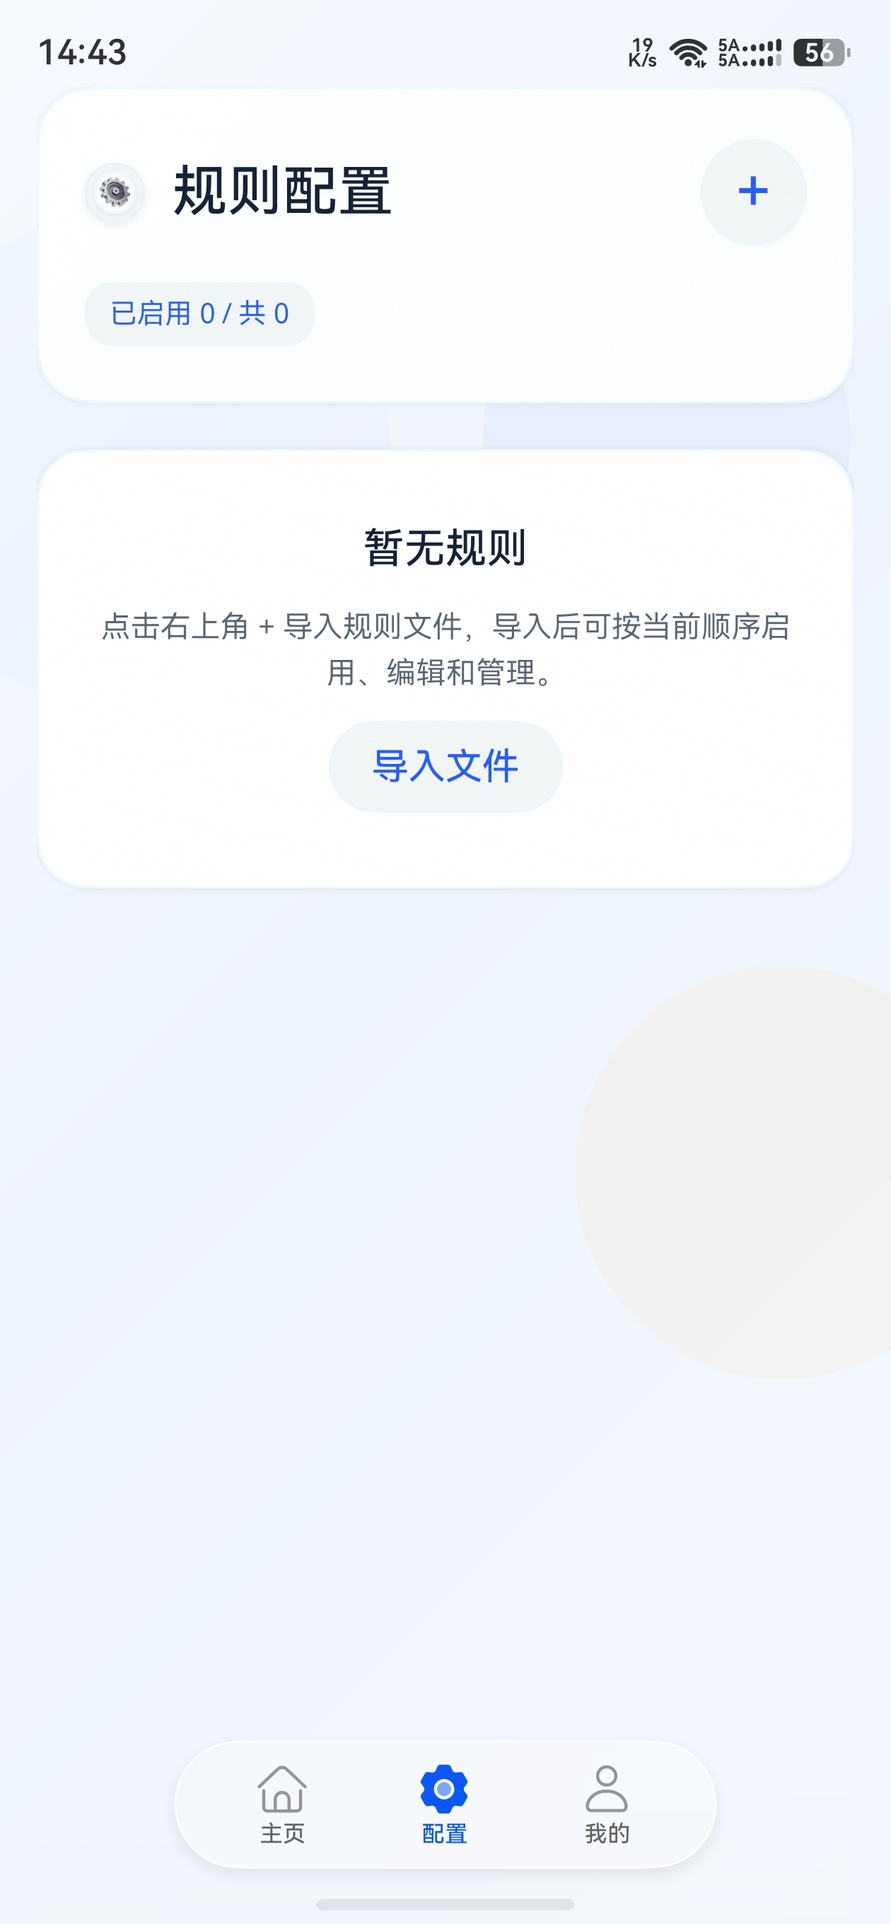
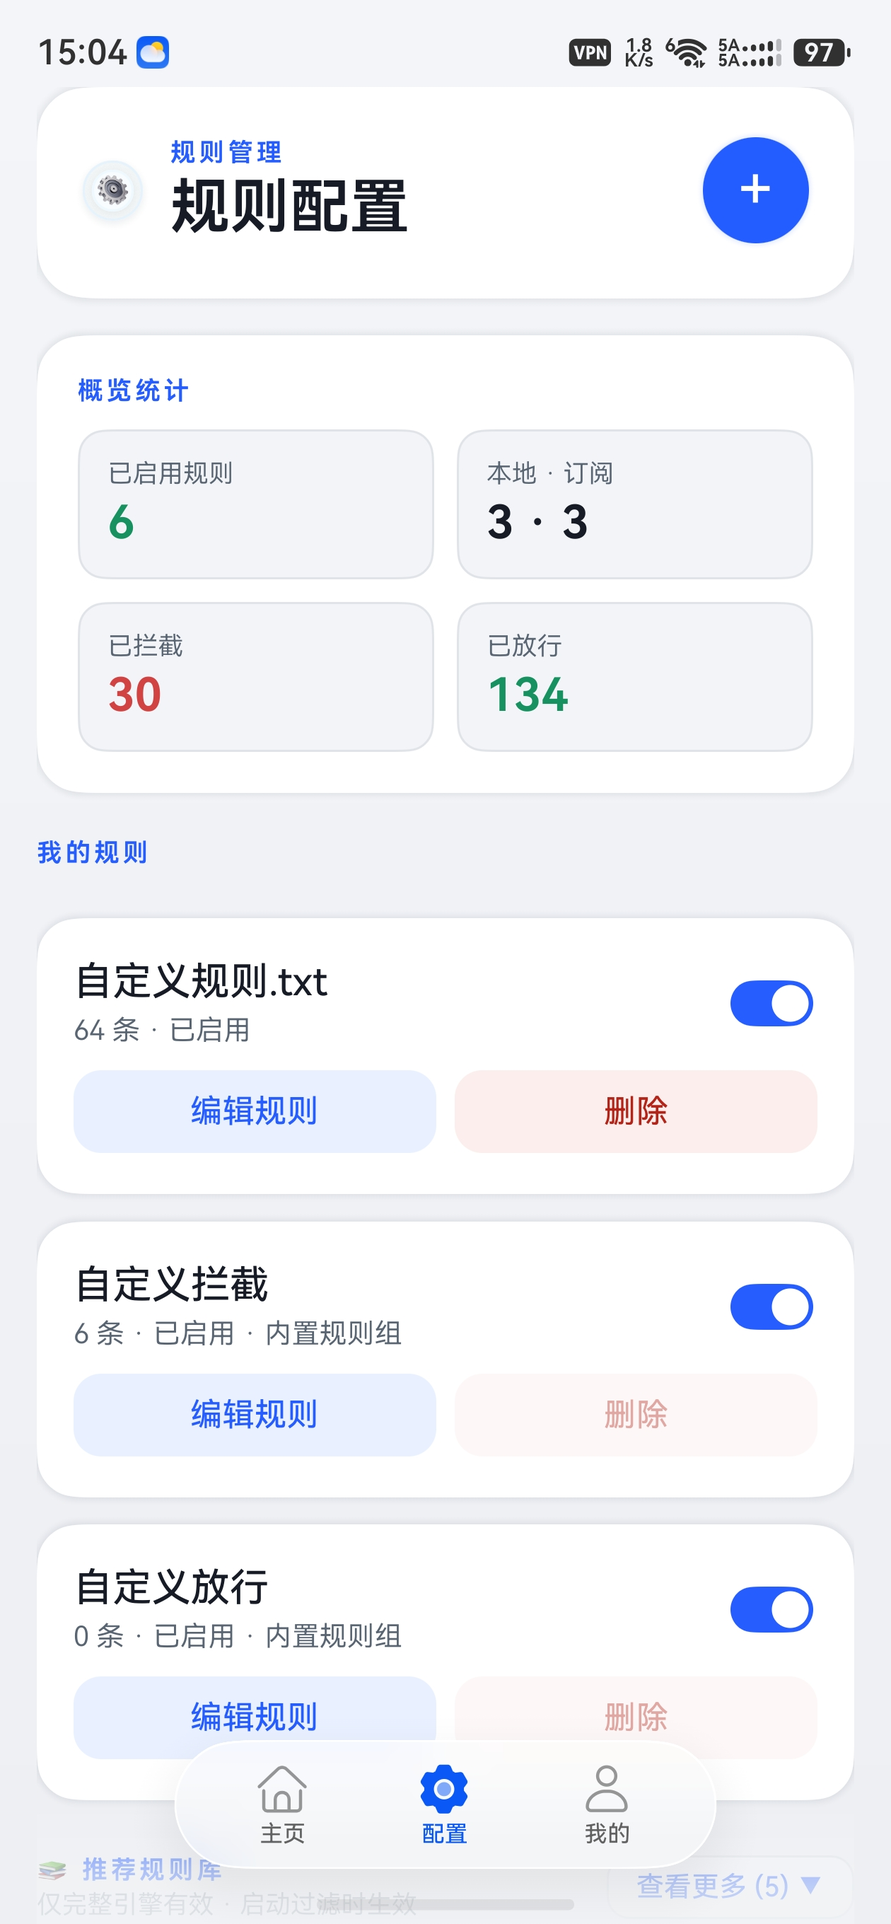
update app to 0.0.3

diff --git a/README-en.md b/README-en.md
@@ -27,6 +27,7 @@ This layout helps keep the build chain reproducible and makes it easier to prepa
 ## Table of Contents
 
 - [Get a Build](#get-a-build)
+- [Changelog](#changelog)
 - [Overview](#overview)
 - [Filtering Engine Status](#filtering-engine-status)
 - [Screenshots](#screenshots)
@@ -35,6 +36,7 @@ This layout helps keep the build chain reproducible and makes it easier to prepa
 - [Good Fit For](#good-fit-for)
 - [Not a Good Fit For](#not-a-good-fit-for)
 - [Roadmap](#roadmap)
+- [Disclaimer](#disclaimer)
 - [Repository Layout](#repository-layout)
 - [Quick Start](#quick-start)
 - [Build Notes](#build-notes)
@@ -67,6 +69,10 @@ Of course, you can also build and install the app directly with **DevEco Studio*
 - An `unsigned` package is more suitable for build verification, workflow validation, or checking artifacts before secondary signing. Whether it can be installed directly depends on your device environment and signing setup.
 - If signed or distribution-ready artifacts are provided later, the instructions on the Releases page should be treated as the source of truth.
 
+## Changelog
+
+Current version: **v0.0.3**. The full bilingual changelog is in [`docs/CHANGELOG.md`](./docs/CHANGELOG.md).
+
 ## Overview
 
 The current application bundle name is `com.tlntin.home_cloud_shield`, and the product name shown in the UI is **栖云盾**.
@@ -81,20 +87,12 @@ Based on the current project structure and implemented pages, the project focuse
 
 ## Filtering Engine Status
 
-At runtime, the app currently uses the **lightweight DNS filtering implementation** in `entry/src/main/cpp/vpnclient_bridge.cpp`, rather than the full `AdGuardHome` runtime.
+The app now supports **two filtering engines**, switchable directly from a **dropdown on the home page**:
 
-The `native/adguardhome-ohos-lib/` directory is currently kept mainly for the following purposes:
+- **Lightweight mode (default)**: uses the lightweight DNS filtering implementation in `entry/src/main/cpp/vpnclient_bridge.cpp`, prioritizing lower power usage and faster response for mobile background operation.
+- **Full mode (AdGuardHome)**: wires in the ported `AdGuardHome` filtering core from `native/adguardhome-ohos-lib/` for broader rule compatibility, and unlocks **blocked services, online rule subscriptions, DNS rewrites, advanced DNS settings, and the AdGuardHome dashboard**; it is more resource-intensive and can be enabled on demand.
 
-- preserving the OHOS porting project and build chain for `AdGuardHome`
-- validating that the shared library can be built
-- preparing for possible future integration of a full filtering engine
-
-For now, the app does **not** directly enable the full `AdGuardHome` library as its default filtering engine, mainly due to concerns around **power usage, resource cost, and mobile-device suitability**.
-
-The long-term plan is to support two modes:
-
-- **Lightweight mode**: continue using the current C/C++ implementation, prioritizing lower power usage and faster response for mobile background operation
-- **Full mode**: try integrating the complete `AdGuardHome` filtering capability when the trade-offs become acceptable
+> For power usage and mobile suitability, the default remains the lightweight mode; full mode is wired in as an optional engine and is still being polished. Subscriptions, rewrites, advanced DNS, and the dashboard only take effect while the full engine is running.
 
 ### Compatibility scope of the current lightweight engine
 
@@ -122,17 +120,22 @@ So the more accurate description of this project today is: a **HarmonyOS local D
 
 ## Screenshots
 
-| Home | Config | Me |
-| --- | --- | --- |
-| ![Home](./images/home.jpg) | ![Config](./images/configs.jpg) | ![Me](./images/me.jpg) |
+| Home | Config | Me | Settings |
+| --- | --- | --- | --- |
+| ![Home](./images/home.jpg) | ![Config](./images/configs.jpg) | ![Me](./images/me.jpg) | ![Settings](./images/settings.jpg) |
 
 ## Features
 
+- **Dual filtering engine**: lightweight / full (AdGuardHome), switchable from a dropdown on the home page.
 - **Local DNS filtering**: routes DNS traffic through a local VPN workflow.
 - **Rule management**: supports importing, editing, enabling, and exporting AdGuard-style DNS rules.
+- **Full-mode-only capabilities**: blocked services (one-tap block common services, with tap-to-view of the actual domain rules), online rule subscriptions (with a recommended list library), DNS rewrites, advanced DNS settings (blocking mode / upstream mode / cache / DNSSEC / rate limit), and the AdGuardHome dashboard (opens in the system browser).
+- **Custom upstream DNS**: multiple upstreams plus built-in presets (AliDNS / DNSPod / Baidu / AdGuard).
 - **Log visibility**: shows recent DNS requests, matched rules, domain stats, and debug logs.
+- **Modern UI**: white-card hero, config overview stats (local + subscriptions), grouped Settings / Me pages, light/dark theme, and **instant in-app language switching**.
+- **Background keep-alive**: audio / location keep-alive and auto-start filtering.
 - **Native bridge integration**: connects the OpenHarmony app layer with lower-level logic through `C/C++ + NAPI`.
-- **Localization foundation**: the app already includes language resources for Simplified Chinese, English, and Traditional Chinese.
+- **Localization**: built-in Simplified Chinese, English, and Traditional Chinese; switching takes effect instantly.
 - **Open-source release readiness**: keeps GPL-related source code, third-party notices, and submodule metadata in the repository.
 
 ## Current Limitations
@@ -140,7 +143,7 @@ So the more accurate description of this project today is: a **HarmonyOS local D
 - The current filtering capability focuses on **DNS domain filtering**, not a full network proxy stack or the complete `AdGuardHome` feature set.
 - Rule compatibility is currently **partial AdGuard-style DNS rule compatibility**, not full syntax coverage.
 - Because the project depends on a local VPN extension and native bridge integration, validation on a **physical HarmonyOS device** is currently recommended.
-- `native/adguardhome-ohos-lib/` is currently kept mainly for porting and build validation, and is not yet wired in as the app's default runtime filtering core.
+- Full mode (`AdGuardHome`) is wired in as an **optional engine**, but it is more resource-intensive, so the default remains the lightweight mode; full mode is still being polished.
 
 ## Good Fit For
 
@@ -158,12 +161,11 @@ So the more accurate description of this project today is: a **HarmonyOS local D
 
 ## Roadmap
 
-- **Near term**: continue improving the lightweight DNS filtering engine, rule management UX, log visibility, and real-device stability.
-- **Mid term**: add clearer rule-compatibility notes, better build artifact documentation, and more complete release instructions.
-- **Mid to long term**: evaluate the cost/benefit of integrating the full `AdGuardHome` filtering capability on HarmonyOS.
-- **Target shape**: support two filtering modes in parallel:
-	- **Lightweight mode**: optimized for lower power usage, mobile background operation, and fast response.
-	- **Full mode**: optimized for broader rule compatibility and more complete filtering behavior.
+- **Done**: lightweight / full (AdGuardHome) dual engine, rule management, log visibility, online subscriptions / DNS rewrites / advanced DNS settings, the modern UI, and instant in-app localization.
+- **Near term**: keep polishing full-mode stability and power usage, and add clearer rule-compatibility notes and build-artifact documentation.
+- **Mid to long term**: further align the capabilities of the lightweight and full modes, and improve the mobile background experience and release flow.
+
+> Per-version details are in [`docs/CHANGELOG.md`](./docs/CHANGELOG.md).
 
 ## Repository Layout
 
@@ -241,6 +243,13 @@ The AdGuardHome OHOS shared-library scripts are located at:
 For SO library build details, see:
 
 - [`native/adguardhome-ohos-lib/README.md`](./native/adguardhome-ohos-lib/README.md)
+
+## Disclaimer
+
+- This app is an on-device **DNS filtering tool**. The built-in "blocked services" list is derived from the `AdGuardHome` open-source project (`servicelist.go`); online subscriptions and recommended lists are **third-party open-source lists** provided "as is", and may over- or under-block.
+- Whether to enable filtering, which services to block, and which lists to subscribe to are **entirely your own decisions and responsibility**. Use it only on **devices/networks you are authorized to manage**, and never for any unlawful purpose.
+- The authors provide no warranty and are not liable for any service disruption, data loss, or other damage arising from use of this app.
+- This app is open source under `GPL-3.0-only`. **On first launch you must read and accept this disclaimer before using the app**; declining exits the app. You can re-read it anytime via "Me → About → Disclaimer".
 
 ## Open Source and License
 

diff --git a/README.md b/README.md
@@ -27,6 +27,7 @@
 ## 目录
 
 - [获取体验包](#获取体验包)
+- [更新日志](#更新日志)
 - [项目概览](#项目概览)
 - [过滤引擎现状](#过滤引擎现状)
 - [应用截图](#应用截图)
@@ -35,6 +36,7 @@
 - [适用场景](#适用场景)
 - [暂不适用场景](#暂不适用场景)
 - [开发路线](#开发路线)
+- [免责声明](#免责声明)
 - [仓库结构](#仓库结构)
 - [快速开始](#快速开始)
 - [构建说明](#构建说明)
@@ -67,6 +69,10 @@
 - `unsigned` 包更适合用于构建产物校验、流程验证或二次签名前检查；是否可直接安装，取决于你的设备环境与签名配置。
 - 如果后续发布已签名或更适合分发的构建产物，建议优先以 Releases 页面的说明为准。
 
+## 更新日志
+
+当前版本：**v0.0.3**。完整的中英双语更新日志见 [`docs/CHANGELOG.md`](./docs/CHANGELOG.md)。
+
 ## 项目概览
 
 应用当前包名为 `com.tlntin.home_cloud_shield`，应用名称为 **栖云盾**。
@@ -81,20 +87,12 @@
 
 ## 过滤引擎现状
 
-当前应用运行时实际采用的是 `entry/src/main/cpp/vpnclient_bridge.cpp` 中的**轻量级 DNS 过滤实现**，而不是完整的 `AdGuardHome` 运行时。
+当前应用已支持**双过滤引擎**，可在**首页直接下拉切换**：
 
-仓库中的 `native/adguardhome-ohos-lib/` 目前主要用于：
+- **轻量级模式（默认）**：使用 `entry/src/main/cpp/vpnclient_bridge.cpp` 中的轻量级 DNS 过滤实现，优先保证移动端常驻运行的功耗与响应速度。
+- **完整模式（AdGuardHome）**：接入 `native/adguardhome-ohos-lib/` 移植的 `AdGuardHome` 过滤内核，提供更完整的规则兼容性，并解锁**服务屏蔽、在线规则订阅、DNS 重写、DNS 高级设置、AdGuardHome 管理面板**等能力；相对更耗资源，按需开启。
 
-- 保留 `AdGuardHome` 的 OHOS 移植工程与构建链路
-- 验证共享库可编译性
-- 为后续集成完整过滤内核做准备
-
-出于**功耗、资源占用与移动端场景适配**的考虑，当前版本暂未在应用内直接启用完整 `AdGuardHome` 库作为默认过滤引擎。
-
-后续计划是同时支持两套模式：
-
-- **轻量级模式**：继续使用当前 C/C++ 实现，优先保证移动端常驻运行的功耗与响应速度
-- **完整模式**：在条件成熟后，尝试内置完整 `AdGuardHome` 过滤能力，提供更高兼容性
+> 出于功耗与移动端场景适配考虑，默认仍为轻量级模式；完整模式作为可选项已经接入，仍在持续打磨。其中订阅、重写、高级 DNS、管理面板等能力仅在完整引擎运行时生效。
 
 ### 当前轻量级规则引擎的兼容范围
 
@@ -122,17 +120,22 @@
 
 ## 应用截图
 
-| 首页 | 配置页 | 我的 |
-| --- | --- | --- |
-| ![首页](./images/home.jpg) | ![配置页](./images/configs.jpg) | ![我的](./images/me.jpg) |
+| 首页 | 配置页 | 我的 | 设置页 |
+| --- | --- | --- | --- |
+| ![首页](./images/home.jpg) | ![配置页](./images/configs.jpg) | ![我的](./images/me.jpg) | ![设置页](./images/settings.jpg) |
 
 ## 功能特性
 
+- **双过滤引擎**：轻量级 / 完整（AdGuardHome），首页一键下拉切换。
 - **本地 DNS 过滤**：基于本地 VPN 模式接管 DNS 流量。
 - **规则管理**：支持导入、编辑、启停、导出兼容 AdGuard 风格的 DNS 规则。
+- **完整模式专属能力**：服务屏蔽（一键屏蔽常见服务，可点开查看具体域名规则）、在线规则订阅（含推荐规则库）、DNS 重写、DNS 高级设置（拦截方式 / 上游模式 / 缓存 / DNSSEC / 限速）、AdGuardHome 管理面板（外部浏览器打开）。
+- **自定义上游 DNS**：支持填写多条上游与内置预设（AliDNS / DNSPod / Baidu / AdGuard）。
 - **日志可视化**：查看最近 DNS 请求、命中规则、域名统计与调试日志。
+- **现代化界面**：白卡片 Hero、配置页概览统计（本地 + 订阅）、分组式设置 / 我的页、深浅色主题、应用内**即时切换语言**。
+- **后台保活**：音频 / 定位保活与自动启动过滤。
 - **原生桥接**：通过 `C/C++ + NAPI` 连接 OpenHarmony 应用层与底层处理逻辑。
-- **多语言基础**：应用内已具备简体中文、English、繁體中文相关语言资源。
+- **多语言**：内置简体中文、English、繁體中文，切换即时生效。
 - **开源分发准备**：仓库保留 GPL 相关源码、第三方说明与子模块信息。
 
 ## 当前限制
@@ -140,7 +143,7 @@
 - 当前过滤能力聚焦 **DNS 域名过滤**，并非完整网络层代理或完整 `AdGuardHome` 能力。
 - 当前规则兼容性为**部分 AdGuard 风格 DNS 规则兼容**，不等同于完整语法覆盖。
 - 由于项目依赖本地 VPN 扩展与原生桥接，当前更推荐在 **HarmonyOS 真机** 上验证。
-- `native/adguardhome-ohos-lib/` 当前主要用于移植与构建验证，尚未作为默认运行时过滤内核接入应用。
+- 完整模式（`AdGuardHome`）已作为**可选引擎**接入，但相对更耗资源，默认仍为轻量级模式；完整模式仍在持续打磨。
 
 ## 适用场景
 
@@ -158,12 +161,11 @@
 
 ## 开发路线
 
-- **近期**：继续完善轻量级 DNS 过滤引擎、规则管理体验、日志可视化与真机稳定性。
-- **中期**：补充更清晰的规则兼容说明、构建产物说明，以及发布流程文档。
-- **中长期**：评估在 HarmonyOS 端内置完整 `AdGuardHome` 过滤能力的成本与收益。
-- **目标形态**：同时支持两套过滤模式——
-	- **轻量级模式**：面向低功耗、移动端常驻与快速响应。
-	- **完整模式**：面向更高规则兼容性与更完整的过滤能力。
+- **已完成**：轻量级 / 完整（AdGuardHome）双引擎、规则管理、日志可视化、在线订阅 / DNS 重写 / DNS 高级设置、现代化 UI 与应用内即时多语言。
+- **近期**：持续打磨完整模式的稳定性与功耗、补充规则兼容说明与构建产物文档。
+- **中长期**：进一步对齐轻量级与完整模式的能力，优化移动端常驻体验与发布流程。
+
+> 各版本详细变更见 [`docs/CHANGELOG.md`](./docs/CHANGELOG.md)。
 
 ## 仓库结构
 
@@ -241,6 +243,13 @@ AdGuardHome OHOS 共享库相关脚本位于：
 SO 库构建细节请直接查看：
 
 - [`native/adguardhome-ohos-lib/README.md`](./native/adguardhome-ohos-lib/README.md)
+
+## 免责声明
+
+- 本应用是运行在本机的 **DNS 过滤工具**。内置「服务屏蔽」清单来自 `AdGuardHome` 开源项目（`servicelist.go`）；在线订阅与推荐规则库均为**第三方开源列表**，按「现状」提供，可能存在误拦截或漏拦截。
+- 是否启用过滤、屏蔽哪些服务、订阅哪些列表，**均由你自行决定并承担相应后果**。请仅在你**有权管理的设备 / 网络**上使用，请勿用于任何非法用途。
+- 作者不提供任何担保，且不对因使用本应用造成的服务不可用、数据丢失或其他损失承担责任。
+- 本应用基于 `GPL-3.0-only` 开源。**首次启动需阅读并同意本免责声明后方可使用**；如不同意将退出应用。应用内「我的 → 关于 → 免责声明」可随时再次查看。
 
 ## 开源与许可证
 

diff --git a/docs/CHANGELOG.md b/docs/CHANGELOG.md
@@ -1,0 +1,94 @@
+# 更新日志 / Changelog
+
+本文档记录 `栖云盾 / home_cloud_shield` 各版本的主要变更，中英双语。
+This file records the notable changes of `栖云盾 / home_cloud_shield` in both Chinese and English.
+
+格式参考 [Keep a Changelog](https://keepachangelog.com/)，版本号遵循 [语义化版本](https://semver.org/lang/zh-CN/)。
+The format is based on [Keep a Changelog](https://keepachangelog.com/) and the project adheres to [Semantic Versioning](https://semver.org/).
+
+---
+
+## [0.0.3] - 2026-06-07
+
+相对 `v0.0.2` 的变更。/ Changes since `v0.0.2`.
+
+### 中文
+
+#### 新增
+
+- **双过滤引擎**：新增「完整模式」（内置 `AdGuardHome` 过滤内核），与「轻量级模式」可在**首页下拉切换**；轻量级仍为默认。
+- **完整模式专属能力**（仅在完整引擎运行时生效）：
+  - **服务屏蔽**：一键屏蔽常见服务（YouTube、TikTok 等），清单来自 AdGuardHome 官方 `servicelist.go`，可点击查看每个服务的具体域名规则（支持长按复制）。
+  - **在线规则订阅**：订阅公共 DNS 拦截列表，内置推荐规则库（AdGuard DNS filter、AdAway、anti-AD、OISD、HaGeZi、Peter Lowe's、StevenBlack、1Hosts 等）。
+  - **DNS 重写**：将域名解析到自定义应答。
+  - **DNS 高级设置**：拦截方式、上游模式、缓存、DNSSEC、限速。
+  - **AdGuardHome 管理面板**：通过外部系统浏览器打开。
+- **自定义上游 DNS**：支持填写多条上游，内置预设（AliDNS / DNSPod / Baidu / AdGuard）。
+- **免责声明**：新增简体中文 / English / 繁體中文三语免责声明（左对齐弹窗）。
+
+#### 优化
+
+- **全新现代化 UI**：白卡片 Hero + 中心状态圆圈、首页引擎下拉切换、配置页概览统计（本地 + 订阅）、推荐规则库可折叠、快速导入菜单（文件 / URL / 在线库）。
+- **设置页重构**为更紧凑的分组卡片（语言 / 过滤规则 / 上游 DNS / 缓存 / 日志 / 调试）；语言置于顶部；完整模式专属项在轻量引擎下置灰并给出提示；移除设置页内的完整引擎开关（已统一到首页）。
+- **「我的」页**改为分组式布局（外观 / 功能 / 后台保活 / 关于）+ 分段式主题切换。
+- **调试日志**从首页移入「高级设置」。
+- 停止过滤时增加「停止中…」过渡态：按钮立即置灰、隐藏「重启过滤」，避免误以为未停止。
+- DNS 请求日志分页优化。
+- 概览「已启用规则 / 本地·订阅」统计同时计入在线订阅。
+
+#### 修复
+
+- 修复应用内切换语言后，部分设置页 / 我的页的标题与标签不会立即刷新（需返回重进）的问题；现在切换语言即时生效，无需重启。
+
+### English
+
+#### Added
+
+- **Dual filtering engine**: a new **Full mode** (embedded `AdGuardHome` filtering core) alongside the **Lightweight mode**, switchable from a **dropdown on the home page**; lightweight remains the default.
+- **Full-mode-only capabilities** (effective only while the full engine is running):
+  - **Blocked services**: one-tap block common services (YouTube, TikTok, etc.); the list is derived from AdGuardHome's official `servicelist.go`, and you can tap a service to view its actual domain rules (long-press to copy).
+  - **Online rule subscriptions**: subscribe to public DNS blocklists, with a recommended library (AdGuard DNS filter, AdAway, anti-AD, OISD, HaGeZi, Peter Lowe's, StevenBlack, 1Hosts, etc.).
+  - **DNS rewrites**: resolve domains to custom answers.
+  - **Advanced DNS**: blocking mode, upstream mode, cache, DNSSEC, rate limit.
+  - **AdGuardHome dashboard**: opens in the external system browser.
+- **Custom upstream DNS**: multiple upstreams plus built-in presets (AliDNS / DNSPod / Baidu / AdGuard).
+- **Disclaimer**: a new tri-lingual (Simplified Chinese / English / Traditional Chinese) disclaimer (left-aligned sheet).
+
+#### Improved
+
+- **Brand-new modern UI**: white-card hero with a central status circle, home-page engine dropdown, config overview stats (local + subscriptions), a collapsible recommended-list library, and a quick-import menu (file / URL / online library).
+- **Settings page reworked** into more compact grouped cards (Language / Filtering / Upstream DNS / Cache / Logs / Debug); Language moved to the top; full-mode-only items are greyed out under the lightweight engine with a hint; the full-engine toggle was removed from Settings (now unified on the home page).
+- **Me page** reorganized into grouped sections (Appearance / Features / Background / About) with a segmented theme control.
+- **Debug log** moved from the home page into Advanced Settings.
+- Added a "Stopping…" transitional state when stopping the filter: the button greys out immediately and the "Restart" button is hidden, so it no longer looks like it failed to stop.
+- DNS request log pagination optimized.
+- The "Enabled rules / Local·Subs" overview stats now also count online subscriptions.
+
+#### Fixed
+
+- Fixed an issue where some Settings / Me page titles and labels did not refresh immediately after switching the in-app language (previously required leaving and re-entering the page); language switching now takes effect instantly without a restart.
+
+---
+
+## [0.0.2] - 2026-04-18
+
+首个公开标记版本（基线）。/ First publicly tagged release (baseline).
+
+### 中文
+
+- 基于本地 VPN 的轻量级 DNS 过滤、AdGuard 风格规则的导入 / 编辑 / 启停 / 导出。
+- DNS 请求、命中规则、域名统计与调试日志可视化。
+- 自定义上游 DNS、DNS 缓存时长设置、独立的高级设置页。
+- 主页底部双击返回退出、保活与多语言资源等基础能力。
+- 保留 GPL 对应源码、第三方声明与 `AdGuardHome` OHOS 移植工程。
+
+### English
+
+- Lightweight local-VPN-based DNS filtering with import / edit / enable / export of AdGuard-style rules.
+- Visibility of DNS requests, matched rules, domain stats, and debug logs.
+- Custom upstream DNS, DNS cache TTL settings, and a dedicated Advanced Settings page.
+- Double-back-to-exit on main tabs, keep-alive, and localization resources.
+- Keeps GPL source, third-party notices, and the `AdGuardHome` OHOS porting project.
+
+[0.0.3]: https://github.com/Tlntin/home-cloud-shield/compare/v0.0.2...v0.0.3
+[0.0.2]: https://github.com/Tlntin/home-cloud-shield/releases/tag/v0.0.2
